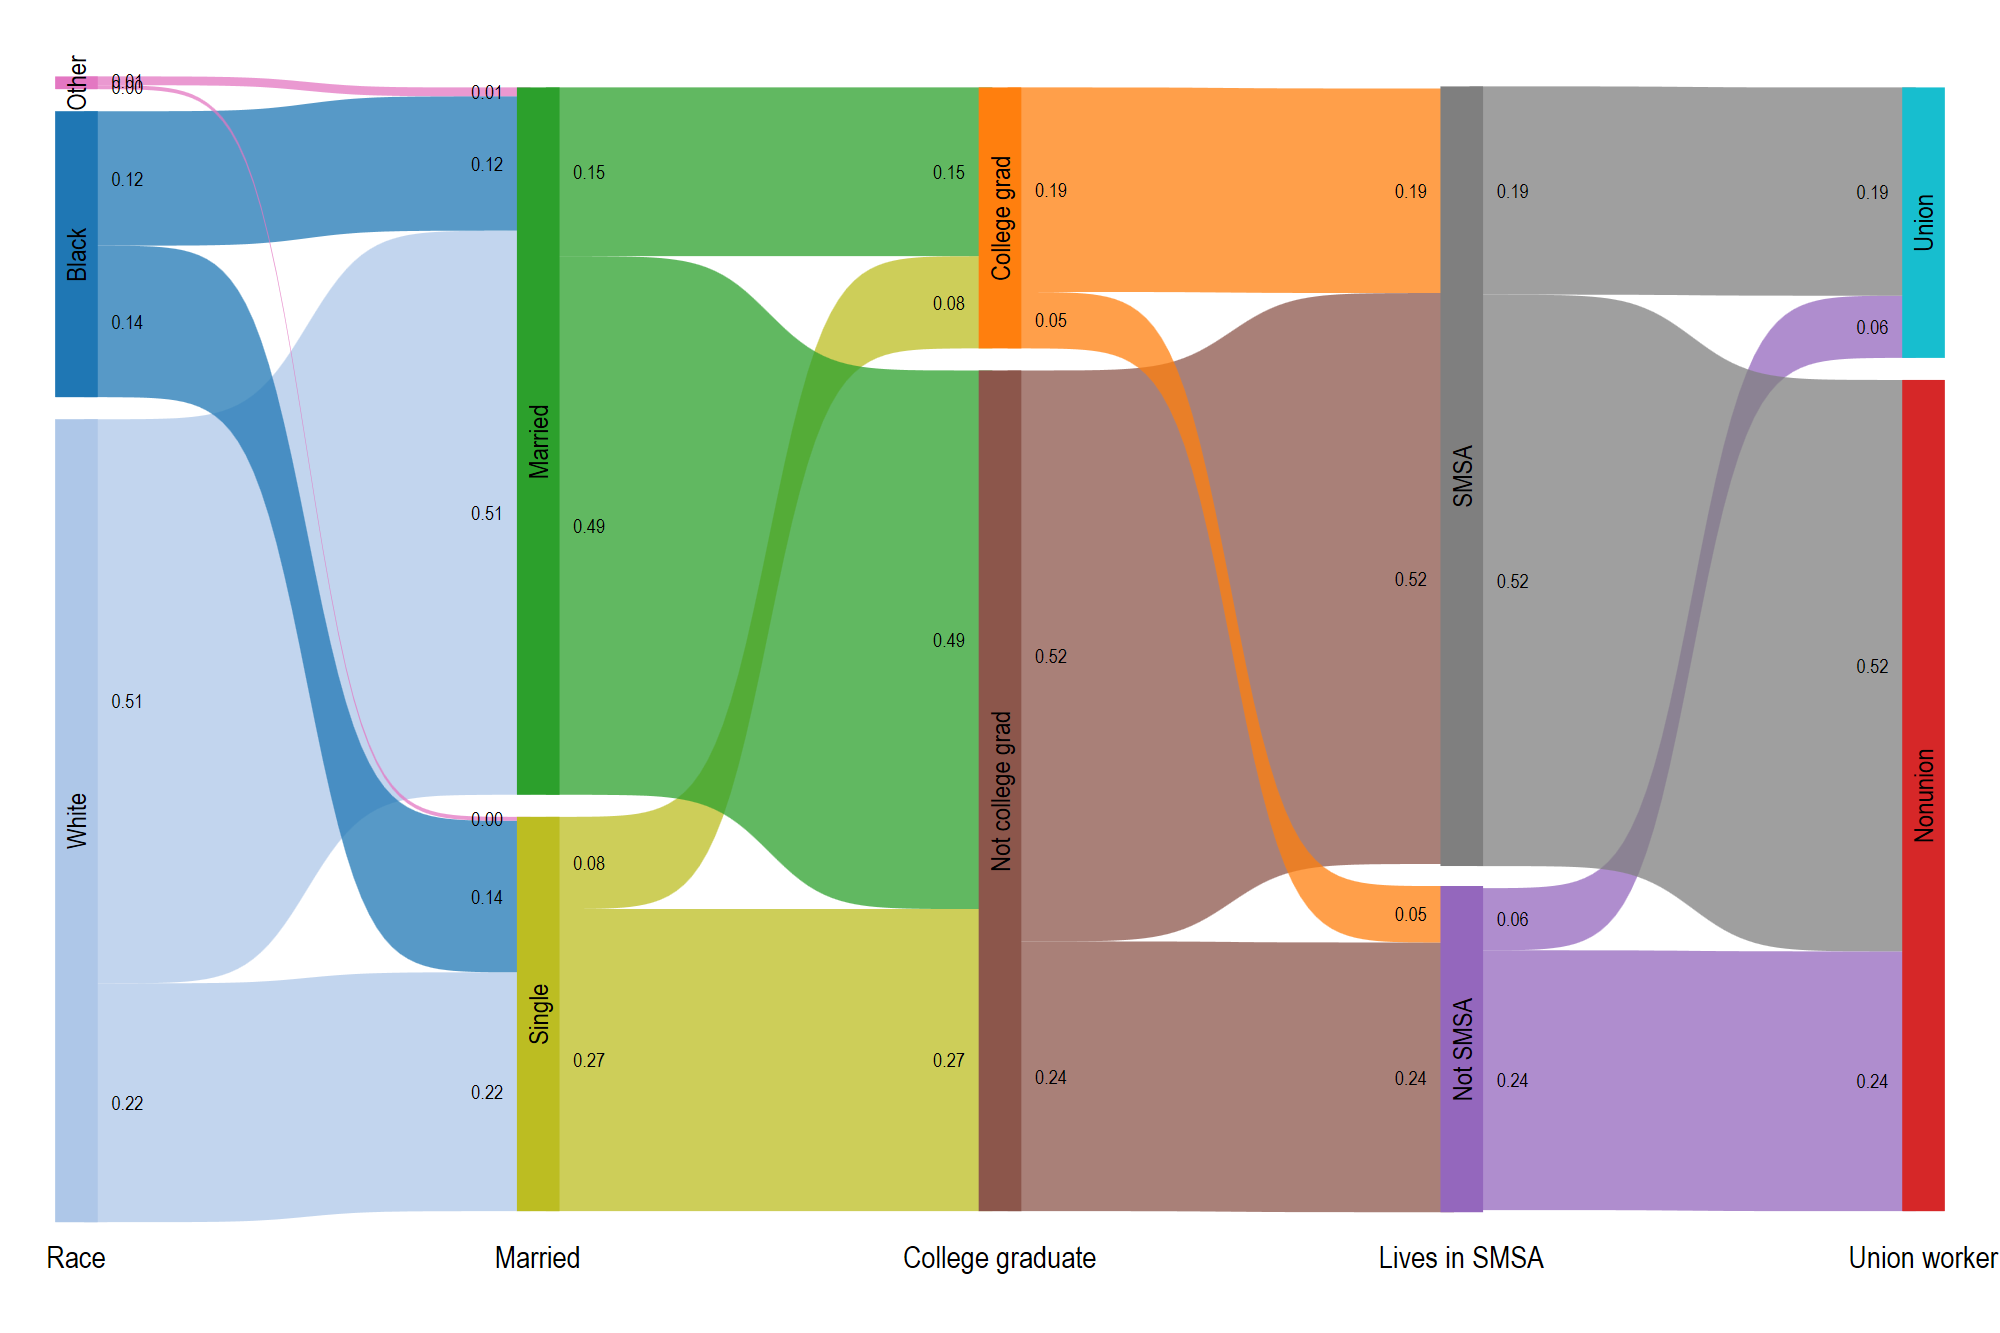
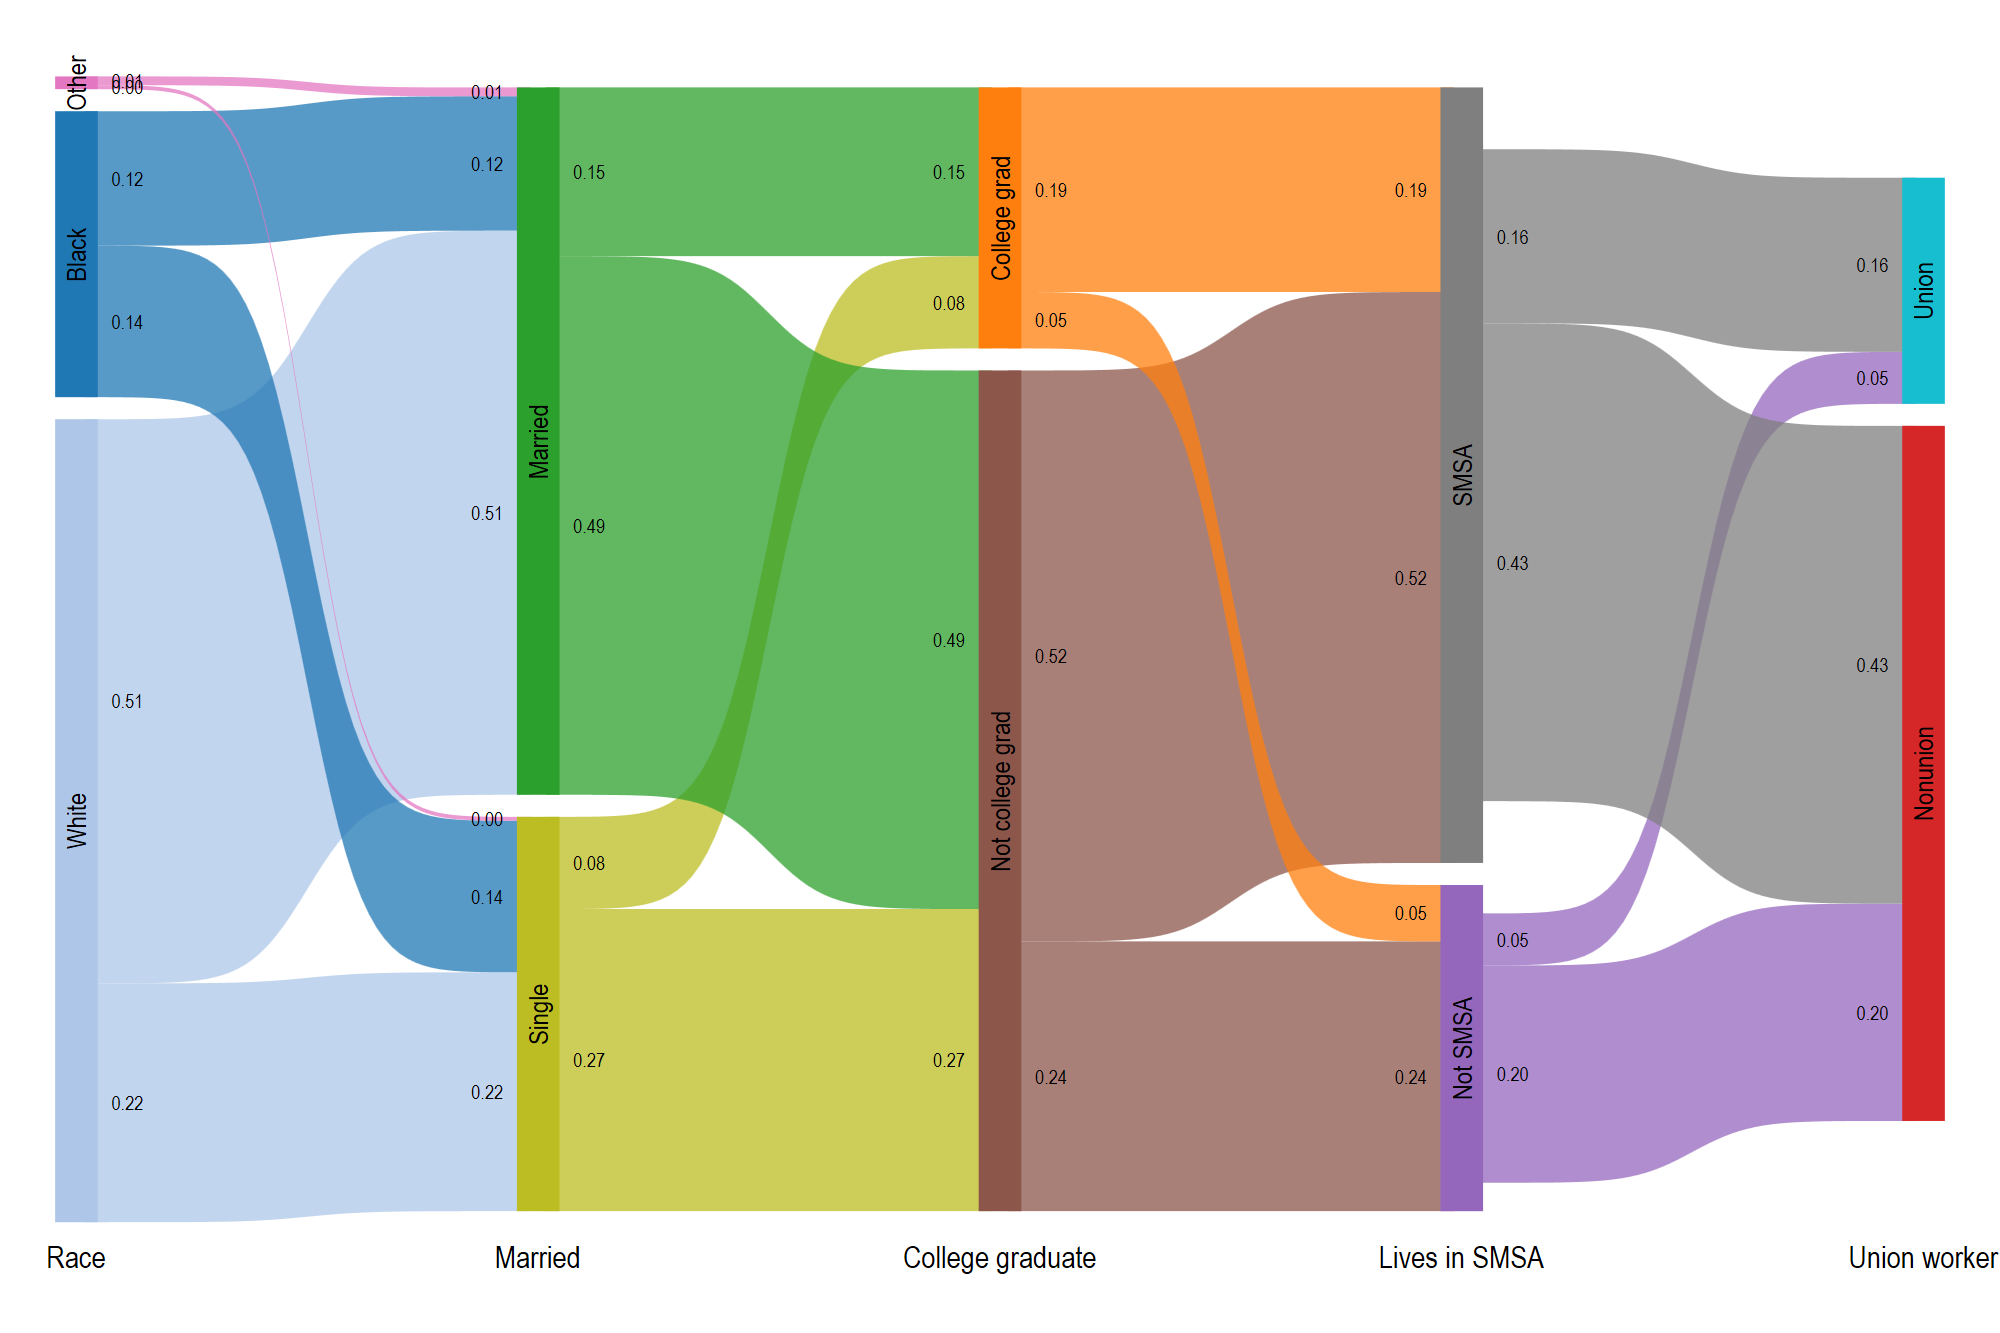
v1.4 minor updates

diff --git a/README.md b/README.md
@@ -50,7 +50,7 @@ You can also push the scheme directly into the graph using the `scheme(schemenam
 
 I also prefer narrow fonts in figures with long labels. You can change this as follows:
 
-```
+```stata
 graph set window fontface "Arial Narrow"
 ```
 
@@ -67,7 +67,6 @@ alluvial varlist [if] [in] [weight],
                   valsize(str) valcondition(num) valformat(str) valgap(str) novalues showtotal novalleft novalright 
                   lwidth(str) lcolor(str) alpha(num) offset(num) boxwidth(str)
                   wraplabel(num) wrapcat(num) valprop labprop valscale(num) labscale(num) n(num) * ]
-
 ```
 
 See the help file `help alluvial` for details.
@@ -86,14 +85,14 @@ where `varlist` are categorival variables given at the unit of observation. If a
 
 Load a Stata dataset:
 
-```
+```stata
 sysuse nlsw88.dta, clear
 ```
 
 Let's test the `alluvial` command:
 
 
-```
+```stata
 alluvial race married collgrad smsa union
 ```
 
@@ -101,13 +100,13 @@ alluvial race married collgrad smsa union
 
 ### Smooth
 
-```
+```stata
 alluvial race married collgrad smsa union, smooth(1)
 ```
 
 <img src="/figures/alluvial1_1.png" width="100%">
 
-```
+```stata
 alluvial race married collgrad smsa union, smooth(8)
 ```
 
@@ -138,10 +137,23 @@ alluvial race married collgrad smsa union, palette(CET I2)
 ### showmiss + shares
 
 ```stata
+alluvial race married collgrad smsa union, shares
+```
+
+<img src="/figures/alluvial3.png" width="100%">
+
+
+```stata
 alluvial race married collgrad smsa union, showmiss shares
 ```
 
 <img src="/figures/alluvial4.png" width="100%">
+
+```stata
+alluvial race married collgrad smsa union, showmiss shares colorby(layer)
+```
+
+<img src="/figures/alluvial4_1.png" width="100%">
 
 ### gap
 
